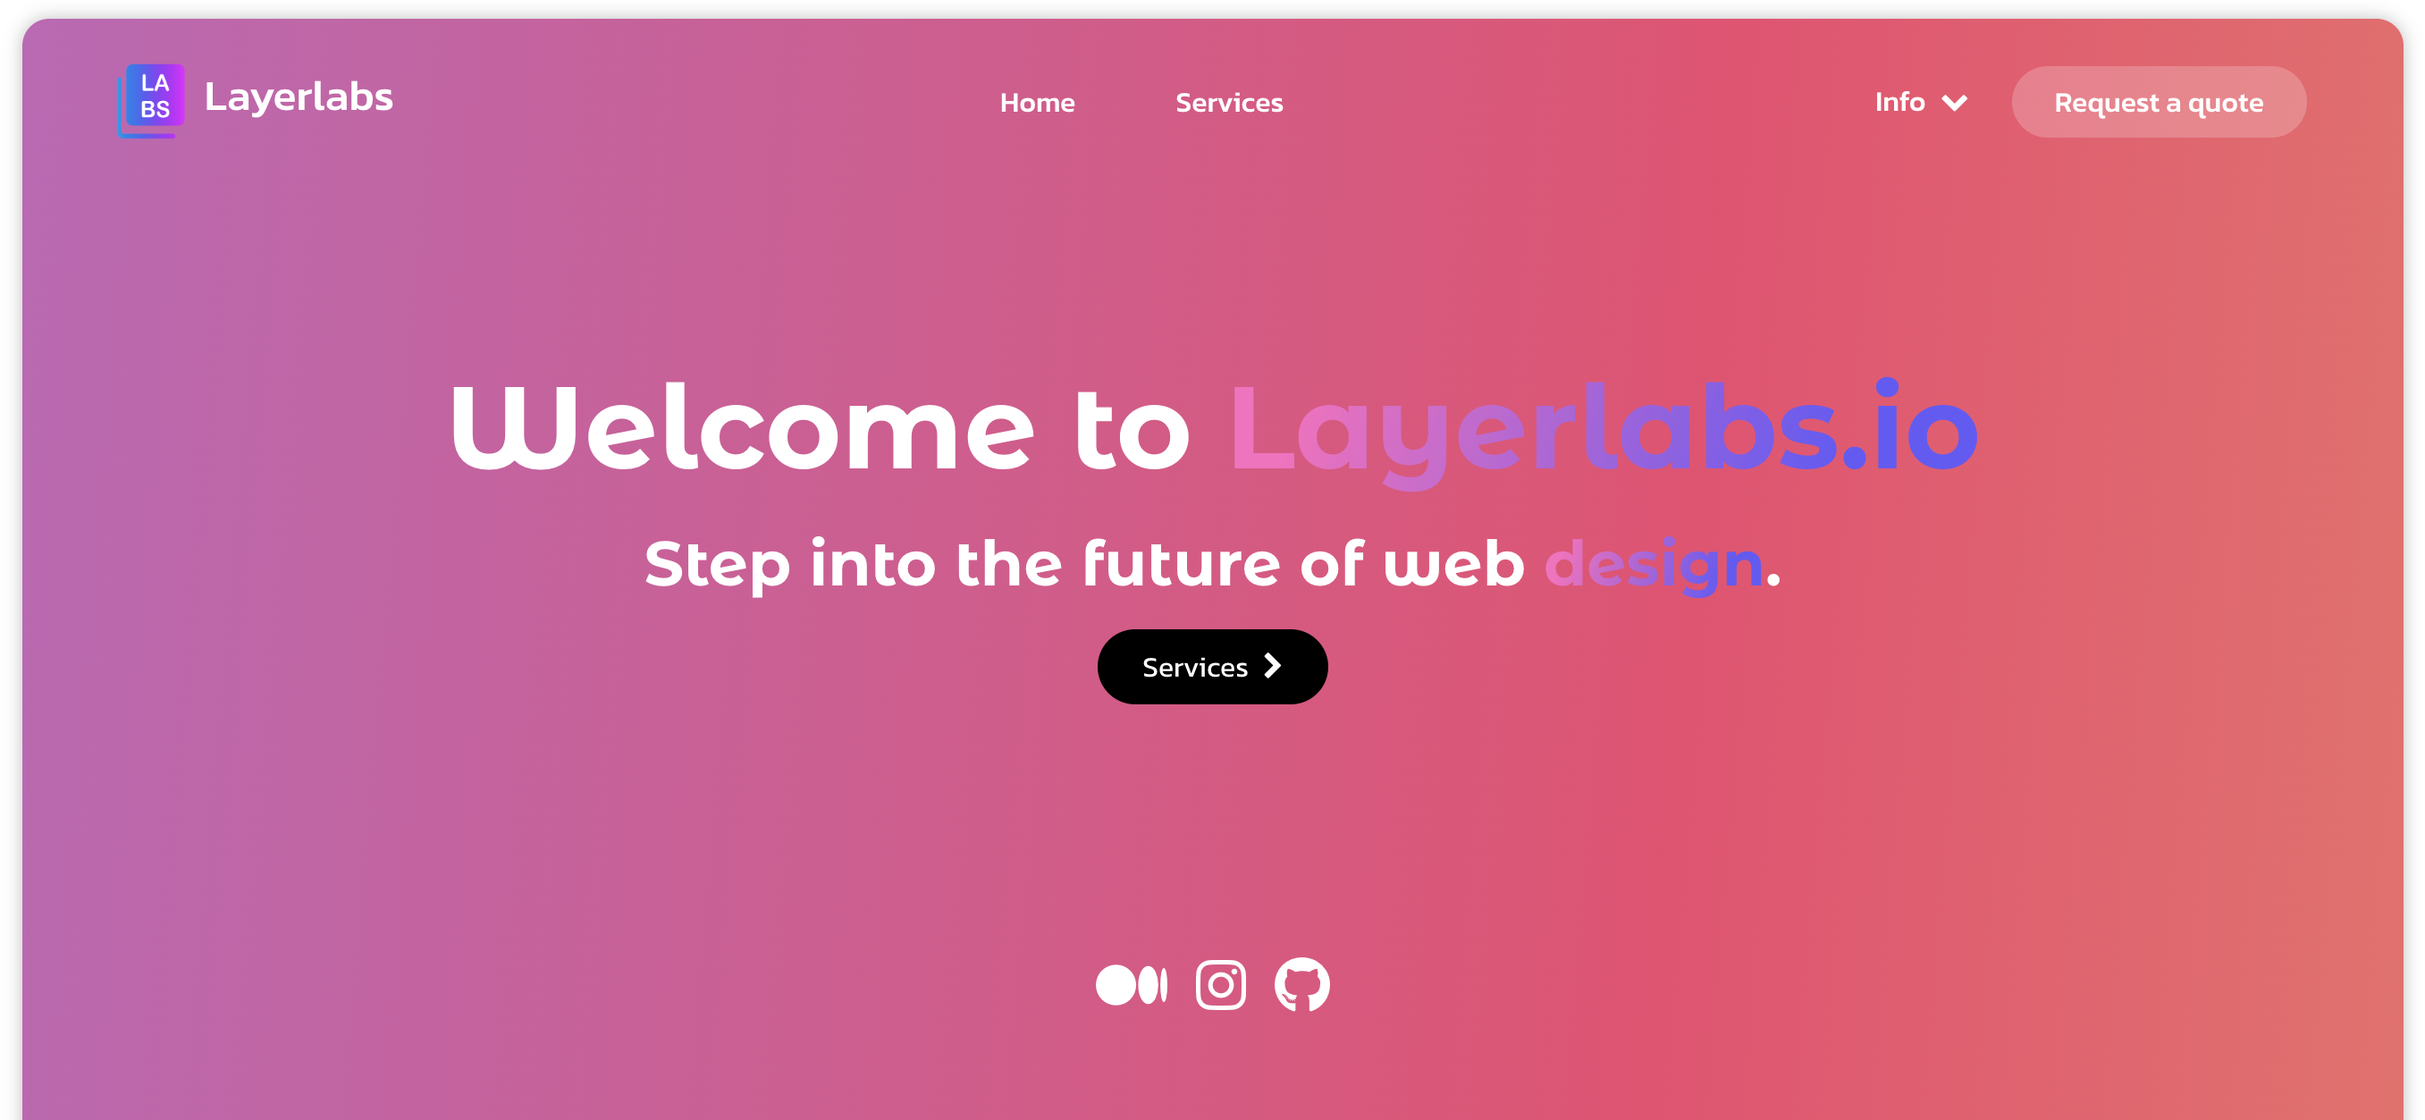
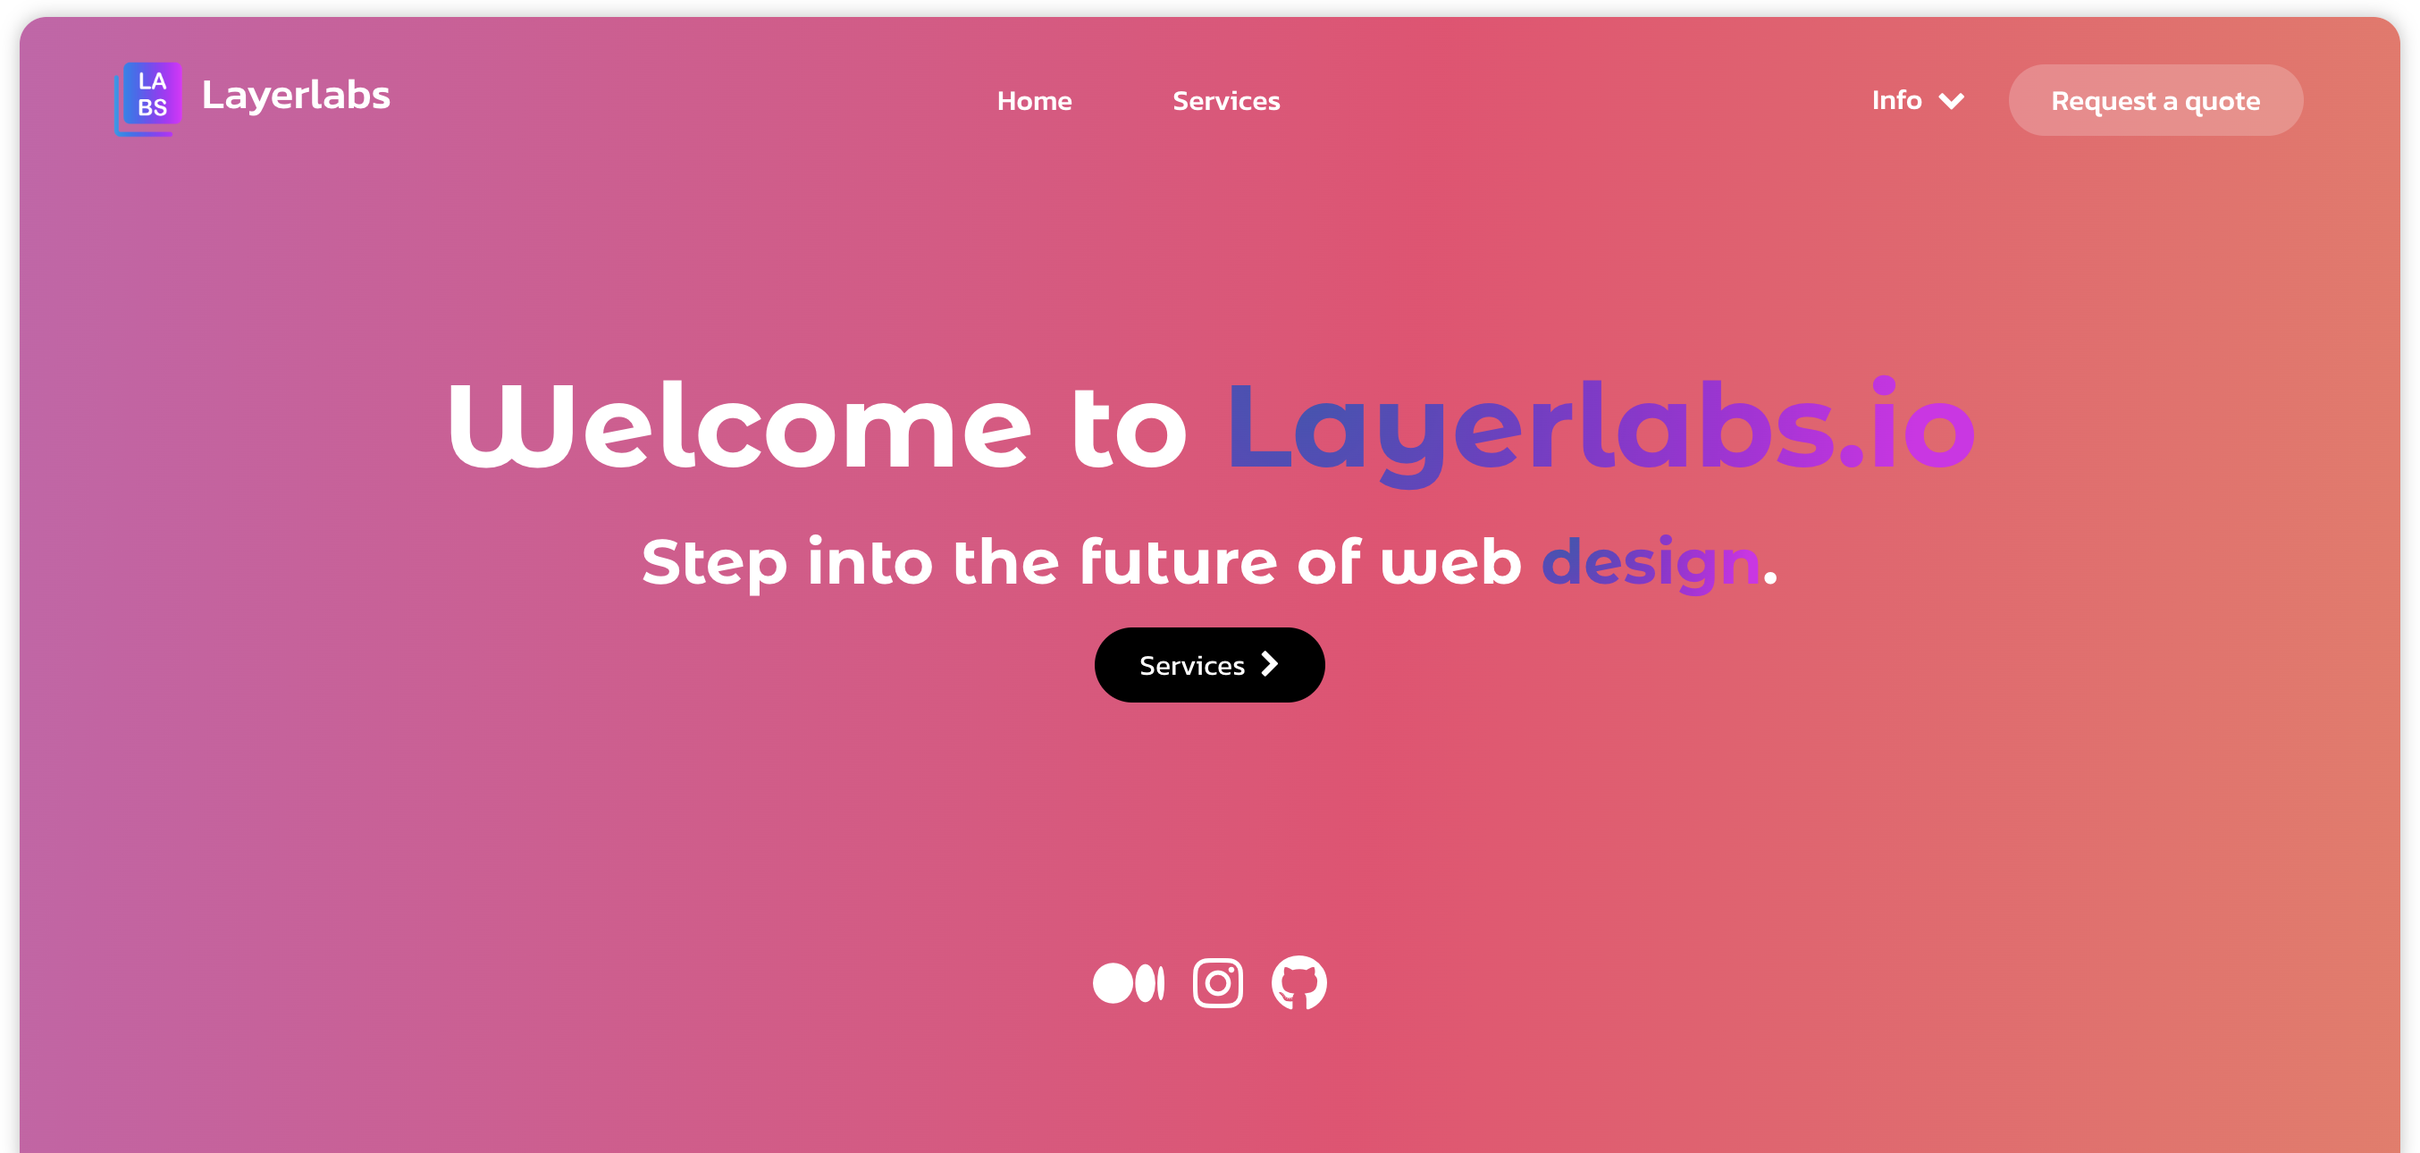
final updates december

diff --git a/src/components/DiscoverComponent.js b/src/components/DiscoverComponent.js
@@ -20,8 +20,8 @@ class Discover extends Component {
                                 we want to make sure the layout responds and adjusts.
                             </p>
                         </div>
-                        <div className='col-12 col-md-12 col-lg-6 mt-3 text-center'>
-                            <img src='/assets/images/web-design.png' className='img-fluid ml-5' width='320px' height='320px' alt='Personal website'/>
+                        <div className='col-12 col-md-12 col-lg-6 mt-3 text-center align-self-center'>
+                            <img src='/assets/images/advertising.png' className='img-fluid ml-5' width='260px' height='260px' alt='Personal website'/>
                         </div>
                     </div>
                     <div className='row mb-3 py-5'>
@@ -34,8 +34,8 @@ class Discover extends Component {
                                 Two or three primary colors should be more than enough. Lastly you want your brand to create trust. It is essential to keep your website functional and current with up to date content. Thus increasing your brands authority and providing confidence to your users.
                             </p>
                         </div>
-                        <div className='col-12 col-md-12 col-lg-6 order-lg-1 mt-3 text-center'>
-                            <img src='/assets/images/brand-identity.png' className='img-fluid ml-5' width='320px' height='320px' alt='Personal website'/>
+                        <div className='col-12 col-md-12 col-lg-6 order-lg-1 mt-3 text-center align-self-center'>
+                            <img src='/assets/images/rating.png' className='img-fluid ml-5' width='260px' height='260px' alt='Personal website'/>
                         </div>
                     </div>
                     <div className='row mb-3 py-5'>
@@ -54,8 +54,8 @@ class Discover extends Component {
                                 <li><span className='fa fa-check mr-3'></span>Design for responsive compatibility</li>
                             </ul>
                         </div>
-                        <div className='col-12 col-md-12 col-lg-6 mt-3 text-center'>
-                            <img src='/assets/images/navigator.png' className='img-fluid ml-5' width='320px' height='320px' alt='Website navigation logo'/>
+                        <div className='col-12 col-md-12 col-lg-6 mt-3 text-center align-self-center'>
+                            <img src='/assets/images/location.png' className='img-fluid ml-5' width='260px' height='260px' alt='Website navigation logo'/>
                         </div>
                     </div>
                     <div className='row mb-3 py-5'>
@@ -68,8 +68,8 @@ class Discover extends Component {
                                 provides inbound links bringing acknowledgement and increasing each individual contents ranking. The more visibility recieved the higher the ranking through each link that is clicked.
                             </p>
                         </div>
-                        <div className='col-12 col-md-12 col-lg-6 order-lg-1 mt-3 text-center'>
-                            <img src='/assets/images/seo.png' className='img-fluid ml-5' width='320px' height='320px' alt='Personal website'/>
+                        <div className='col-12 col-md-12 col-lg-6 order-lg-1 mt-3 text-center align-self-center'>
+                            <img src='/assets/images/optimizing.png' className='img-fluid ml-5' width='260px' height='260px' alt='Personal website'/>
                         </div>
                     </div>
                     <div className='row mb-3 py-5'>
@@ -89,8 +89,8 @@ class Discover extends Component {
                                 <li><span className='fa fa-check mr-3'></span>File Inclusion</li>
                             </ul>
                         </div>
-                        <div className='col-12 col-md-12 col-lg-6 mt-3 text-center'>
-                        <img src='/assets/images/cyber-security.png' className='img-fluid ml-5' width='320px' height='320px' alt='Personal website'/>
+                        <div className='col-12 col-md-12 col-lg-6 mt-3 text-center align-self-center'>
+                        <img src='/assets/images/security.png' className='img-fluid ml-5' width='260px' height='260px' alt='Personal website'/>
                         </div>
                     </div>
                 </>
@@ -107,7 +107,7 @@ class Discover extends Component {
                             <div className='col-12 col-md-6 text-center'>
                                 {/* discover page links tab */}
                                 <div className='btn-services-tab'>
-                                    <Link to='/services' className='btn btn-services font-two'><span className='fa fa-box mr-2'></span>Packages <span className='fa fa-chevron-down'></span></Link>
+                                    <Link to='/services' className='btn btn-services font-two mx-2'><span className='fa fa-box mr-2'></span>Packages <span className='fa fa-chevron-down'></span></Link>
                                     <Link to='/discover' className='btn btn-services-active font-two active ml-2'><span className='fa-solid fa-globe mr-2'></span>Discover <span className='fa fa-chevron-down'></span></Link>
                                 </div>
                             </div>

diff --git a/src/components/ServicesComponent.js b/src/components/ServicesComponent.js
@@ -29,7 +29,7 @@ const Services = () => {
                                    <h6><span className='fa fa-check mr-2'></span>Mobile optimized design and development.</h6>
                                    <h6><span className='fa fa-check mr-2'></span>Standard SEO integration.</h6>
                                 </div>
-                                <Link to='/services/custom-package' className='nav-link btn btn-black my-3 px-4'>More Detials</Link>
+                                <Link to='/services/custom-package' className='nav-link btn btn-black my-3 px-4'>More Detials<span className='fa fa-chevron-right ml-2'></span></Link>
                             </CardBody>
                         </Card>
                     </FadeTransform>
@@ -57,7 +57,7 @@ const Services = () => {
                                    <h6><span className='fa fa-check mr-2'></span>Collabarative detail and design.</h6>
                                    <h6><span className='fa fa-check mr-2'></span>High level interactivity & animation.</h6>
                                 </div>
-                                <Link to='/services/custom-plus-package' className='nav-link btn btn-black my-3 px-4'>More Details</Link>
+                                <Link to='/services/custom-plus-package' className='nav-link btn btn-black my-3 px-4'>More Details<span className='fa fa-chevron-right ml-2'></span></Link>
                             </CardBody>
                         </Card>
                     </FadeTransform>
@@ -85,7 +85,7 @@ const Services = () => {
                                     <h6><span className='fa fa-check mr-2'></span>Advanced interactivity and animation. </h6>
                                     <h6><span className='fa fa-check mr-2'></span>Advanced SEO integration.</h6>
                                 </div>
-                                <Link to='/services/business-plus-package' className='nav-link btn btn-black mt-3 mb-4 px-4'>More Details</Link>
+                                <Link to='/services/business-plus-package' className='nav-link btn btn-black mt-3 mb-4 px-4'>More Details<span className='fa fa-chevron-right ml-2'></span></Link>
                             </CardBody>
                         </Card>
                     </FadeTransform>
@@ -135,7 +135,7 @@ const Services = () => {
                         <div className='row d-flex justify-content-center py-5'>
                             <div className='col-12 col-md-6 text-center'>
                                 <div className='btn-services-tab'>
-                                    <Link to='/services' className='btn btn-services-active font-two active'><span className='fa fa-box mr-2'></span>Packages <span className='fa fa-chevron-down'></span></Link>
+                                    <Link to='/services' className='btn btn-services-active font-two active mx-2'><span className='fa fa-box mr-2'></span>Packages <span className='fa fa-chevron-down'></span></Link>
                                     <Link to='/discover' className='btn btn-services font-two ml-1'><span className='fa-solid fa-globe mr-2'></span>Discover <span className='fa fa-chevron-down'></span></Link>
                                 </div>
                             </div>

diff --git a/src/components/ContactComponent.js b/src/components/ContactComponent.js
@@ -66,8 +66,9 @@ class Contact extends Component {
                             </div>
                                 <Form className='p-4' onSubmit={handleOnSubmit}>
                                     <FormGroup>
-                                        <Label htmlFor='user_email'><span className='fa fa-envelope mr-2'></span><b>Email<span className='text-danger'> *</span></b></Label>
+                                        <Label htmlFor='user_email'><span className='fa fa-envelope mr-2'></span>Email<span className='text-danger'> *</span></Label>
                                         <Input
+                                        className='contact-input'
                                         type='email'
                                         id='user_email'
                                         innerRef={(input) => this.user_email = input}
@@ -77,8 +78,9 @@ class Contact extends Component {
                                         />
                                     </FormGroup>
                                     <FormGroup>
-                                        <Label htmlFor='user_name'><span className='fa fa-user mr-2'></span><b>Full Name<span className='text-danger'> *</span></b></Label>
+                                        <Label htmlFor='user_name'><span className='fa fa-user mr-2'></span>Full Name<span className='text-danger'> *</span></Label>
                                         <Input
+                                        className='contact-input'
                                         type='text'
                                         id='user_name'
                                         innerRef={(input) => this.user_name = input}
@@ -88,8 +90,9 @@ class Contact extends Component {
                                         />
                                     </FormGroup>
                                     <FormGroup>
-                                        <Label htmlFor='user_message'><span className='fa-solid fa-message mr-2'></span><b>Message<span className='text-danger'> *</span></b></Label>
+                                        <Label htmlFor='user_message'><span className='fa-solid fa-message mr-2'></span>Message<span className='text-danger'> *</span></Label>
                                         <Input
+                                        className='contact-input'                                        
                                         type='textarea'
                                         id='user_message'
                                         name='user_message'

diff --git a/src/components/HomeComponent.js b/src/components/HomeComponent.js
@@ -286,7 +286,7 @@ class Home extends Component {
                     </div>
                     {/* rendering services section */}
                     <RenderServices />
-                    <div className='row personal-business'>
+                    <div className='row personal-business my-5'>
                         <div className='col-12 col-md-6'>
                                 <h2 className='font-two pt-5'>Interested in a personal website?</h2>
                                 <p className='py-4'>
@@ -304,8 +304,8 @@ class Home extends Component {
                                     <li><span className='fa fa-square-check mr-3'></span>Expand your network</li>
                                 </ul>
                             </div>
-                            <div className='col-12 col-md-6 text-center'>
-                                <img src='/assets/images/web-design.png' className='img-fluid move-img ml-5' width='320px' height='320px' alt='Personal website'/>
+                            <div className='col-12 col-md-6 text-center align-self-center'>
+                                <img src='/assets/images/advertising.png' className='img-fluid move-img ml-5' width='290px' height='290px' alt='Personal website'/>
                             </div>
                         </div>                 
                         <div className='row personal-business py-5'>
@@ -326,8 +326,8 @@ class Home extends Component {
                                     <li><span className='fa fa-square-check mr-3'></span>Online credibility</li>
                                 </ul>
                             </div>
-                            <div className='col-12 col-md-6 text-center'>
-                                <img src='/assets/images/online-business.png' className='img-fluid move-img ml-5' width='320px' height='320px' alt='Business website'/>  
+                            <div className='col-12 col-md-6 text-center align-self-center'>
+                                <img src='/assets/images/ecommerce.png' className='img-fluid move-img ml-5' width='290px' height='290px' alt='Business website'/>  
                             </div>
                         </div>
                 

diff --git a/src/functionalComponents/functionalComponents.js b/src/functionalComponents/functionalComponents.js
@@ -182,7 +182,7 @@ export const RenderPackageProcess = () => {
             <div className='row py-5 my-4'>
                 <div className='col-12 col-md-12 col-lg-6'>
                     <h6 className='thin-text'>PHASE 1</h6>
-                    <h2 className='font-two gradient-text'>Discovery</h2>
+                    <h2 className='font-two gradient-text-two'>Discovery</h2>
                     <ul className='list-unstyled font-two py-4'>
                         <li><span className='fa fa-bolt mr-2'></span>Create a roadmap</li>
                         <li className='my-2'><span className='fa fa-bolt mr-2'></span>Gather material</li>
@@ -211,7 +211,7 @@ export const RenderPackageProcess = () => {
             <div className='row py-5 my-4'>
                 <div className='col-12 col-md-12 col-lg-6'>
                     <h6 className='thin-text'>PHASE 3</h6>
-                    <h2 className='font-two gradient-text'>Design</h2>
+                    <h2 className='font-two gradient-text-two'>Design</h2>
                     <ul className='list-unstyled font-two py-4'>
                         <li><span className='fa fa-bolt mr-2'></span>Creating a visual style</li>
                         <li className='my-2'><span className='fa fa-bolt mr-2'></span>Choosing color palettes</li>
@@ -239,7 +239,7 @@ export const RenderPackageProcess = () => {
             <div className='row py-5 my-4'>
                 <div className='col-12 col-md-12 col-lg-6'>
                     <h6 className='thin-text'>PHASE 5</h6>
-                    <h2 className='font-two gradient-text'>Testing</h2>
+                    <h2 className='font-two gradient-text-two'>Testing</h2>
                     <ul className='list-unstyled font-two py-4'>
                         <li><span className='fa fa-bolt mr-2'></span>Testing site performance</li>
                         <li className='my-2'><span className='fa fa-bolt mr-2'></span>Reviewing site responsiveness</li>

diff --git a/src/App.css b/src/App.css
@@ -115,8 +115,17 @@ p {
 
 .gradient-text {
   background-color: #f3ec78;
-  background-image: linear-gradient(106.4deg, rgb(255, 104, 192) 11.1%, rgb(104, 84, 249) 81.3%);
+  background: radial-gradient(circle at 10% 20%, rgb(64, 84, 178) 0%, rgb(219, 2, 234) 90%);
  -webkit-background-clip: text;
+  -moz-background-clip: text;
+  -webkit-text-fill-color: transparent; 
+  -moz-text-fill-color: transparent;
+}
+
+.gradient-text-two {
+  background-color: #f3ec78;
+  background-image: linear-gradient(106.4deg, rgb(255, 104, 192) 11.1%, rgb(104, 84, 249) 81.3%);
+  -webkit-background-clip: text;
   -moz-background-clip: text;
   -webkit-text-fill-color: transparent; 
   -moz-text-fill-color: transparent;
@@ -206,7 +215,7 @@ p {
 
 .btn-gradient {
   color: white;
-  background-image: linear-gradient(106.4deg, rgb(255, 104, 192) 11.1%, rgb(104, 84, 249) 81.3%);
+  background: radial-gradient(circle at 10% 20%, rgb(64, 84, 178) 0%, rgb(219, 2, 234) 90%);
   border-radius: 50px;
   border: none;
   padding: 8px 24px 8px 24px;
@@ -214,9 +223,8 @@ p {
 
 .btn-gradient:hover {
   color: rgb(255, 255, 255);
-  font-weight: 700;
   border: none;
-  background-color: black;
+  background-color: rgba(0, 0, 0, 0.476);
   background-image: none;
   transition: all ease-in-out 1s;
 }
@@ -389,7 +397,7 @@ p {
 }
 
 .custom-card {
-  background-color: rgba(255, 255, 255, 0.83);
+  background-color: rgba(255, 255, 255, 0.632);
   border: none;
   border-radius: 15px;
   box-shadow: 0 0 15px rgba(0, 0, 0, 0.424);
@@ -472,6 +480,13 @@ p {
 .contact-quote {
   font-family:Verdana, Geneva, Tahoma, sans-serif;
   font-weight: 800;
+}
+
+.contact-input {
+  background-color: rgb(255, 255, 255);
+  border: none;
+  border-radius: 15px;
+  padding: 10px;
 }
 /* personal profile page styling */
 .profile-card {
